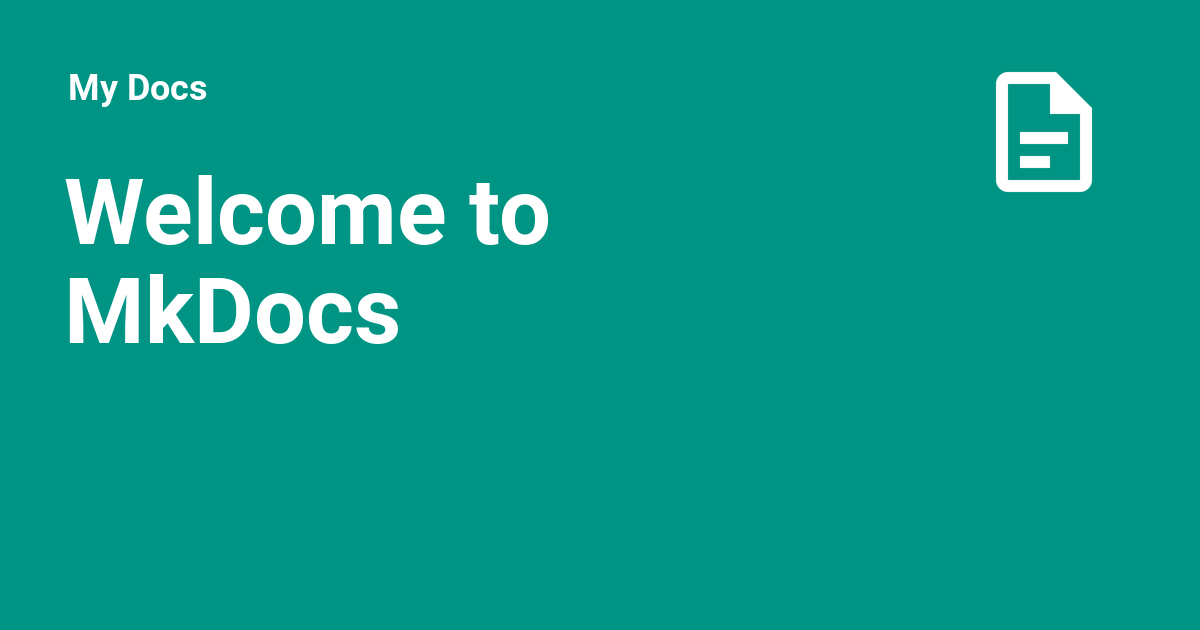
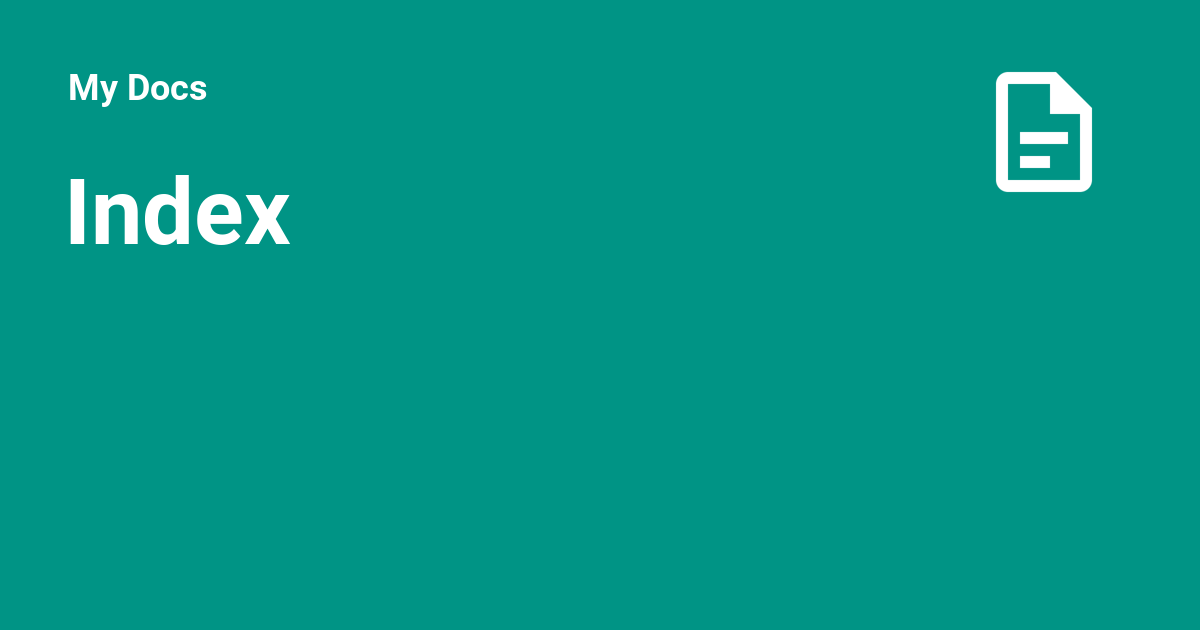
Deployed 6fcd991 with MkDocs version: 1.4.2

Changed region(s): [[0.0308, 0.2714, 0.4625, 0.3921], [0.0308, 0.4222, 0.3392, 0.5429]]

diff --git a/index.html b/index.html
@@ -18,7 +18,7 @@
     
     
       
-        <title>Welcome to MkDocs - My Docs</title>
+        <title>Index - My Docs</title>
       
     
     
@@ -50,7 +50,7 @@
       
         <meta  property="og:type"  content="website" >
       
-        <meta  property="og:title"  content="Welcome to MkDocs - My Docs" >
+        <meta  property="og:title"  content="Index - My Docs" >
       
         <meta  property="og:description"  content="None" >
       
@@ -66,7 +66,7 @@
       
         <meta  name="twitter:card"  content="summary_large_image" >
       
-        <meta  name="twitter:title"  content="Welcome to MkDocs - My Docs" >
+        <meta  name="twitter:title"  content="Index - My Docs" >
       
         <meta  name="twitter:description"  content="None" >
       
@@ -96,7 +96,7 @@
     <div data-md-component="skip">
       
         
-        <a href="#welcome-to-mkdocs" class="md-skip">
+        <a href="#mkdocs-material-template" class="md-skip">
           Skip to content
         </a>
       
@@ -129,7 +129,7 @@
         <div class="md-header__topic" data-md-component="header-topic">
           <span class="md-ellipsis">
             
-              Welcome to MkDocs
+              Index
             
           </span>
         </div>
@@ -380,15 +380,8 @@
     <ul class="md-nav__list" data-md-component="toc" data-md-scrollfix>
       
         <li class="md-nav__item">
-  <a href="#commands" class="md-nav__link">
-    Commands
-  </a>
-  
-</li>
-      
-        <li class="md-nav__item">
-  <a href="#project-layout" class="md-nav__link">
-    Project layout
+  <a href="#getting-started" class="md-nav__link">
+    Getting started
   </a>
   
 </li>
@@ -414,28 +407,25 @@
   
 
 
-<h1 id="welcome-to-mkdocs">Welcome to MkDocs<a class="headerlink" href="#welcome-to-mkdocs" title="Permanent link">&para;</a></h1>
-<p>For full documentation visit <a href="https://www.mkdocs.org">mkdocs.org</a>.</p>
-<h2 id="commands">Commands<a class="headerlink" href="#commands" title="Permanent link">&para;</a></h2>
+<h1 id="mkdocs-material-template">MkDocs Material Template<a class="headerlink" href="#mkdocs-material-template" title="Permanent link">&para;</a></h1>
+<p>This is a template based on <a href="https://github.com/squidfunk/mkdocs-material">Material for MkDocs</a>.</p>
+<p>The template features:</p>
 <ul>
-<li><code>mkdocs new [dir-name]</code> - Create a new project.</li>
-<li><code>mkdocs serve</code> - Start the live-reloading docs server.</li>
-<li><code>mkdocs build</code> - Build the documentation site.</li>
-<li><code>mkdocs -h</code> - Print help message and exit.</li>
+<li>All free features from <a href="https://squidfunk.github.io/mkdocs-material/">MkDocs Material</a>.</li>
 </ul>
-<h2 id="project-layout">Project layout<a class="headerlink" href="#project-layout" title="Permanent link">&para;</a></h2>
-<div class="language-text highlight"><pre><span></span><code>mkdocs.yml    # The configuration file.
-docs/
-    index.md  # The documentation homepage.
-    ...       # Other markdown pages, images and other files.
-</code></pre></div>
+<h2 id="getting-started">Getting started<a class="headerlink" href="#getting-started" title="Permanent link">&para;</a></h2>
+<ol>
+<li>Fork this Git repository</li>
+<li>Search for <code>TODO</code>s in the forked repository and modify accordingly to customize your site.</li>
+</ol>
+<p>Please make sure to fork the repository, since it allows you to merge in future updates from the template easily.</p>
 
   <hr>
 <div class="md-source-file">
   <small>
     
       Last update:
-      <span class="git-revision-date-localized-plugin git-revision-date-localized-plugin-date">April 7, 2023</span>
+      <span class="git-revision-date-localized-plugin git-revision-date-localized-plugin-date">April 13, 2023</span>
       
         <br>
         Created:

diff --git a/tags/index.html b/tags/index.html
@@ -446,7 +446,7 @@
       <nav class="md-footer__inner md-grid" aria-label="Footer" >
         
           
-          <a href=".." class="md-footer__link md-footer__link--prev" aria-label="Previous: Welcome to MkDocs" rel="prev">
+          <a href=".." class="md-footer__link md-footer__link--prev" aria-label="Previous: Index" rel="prev">
             <div class="md-footer__button md-icon">
               <svg xmlns="http://www.w3.org/2000/svg" viewBox="0 0 24 24"><path d="M20 11v2H8l5.5 5.5-1.42 1.42L4.16 12l7.92-7.92L13.5 5.5 8 11h12Z"/></svg>
             </div>
@@ -455,7 +455,7 @@
                 Previous
               </span>
               <div class="md-ellipsis">
-                Welcome to MkDocs
+                Index
               </div>
             </div>
           </a>
